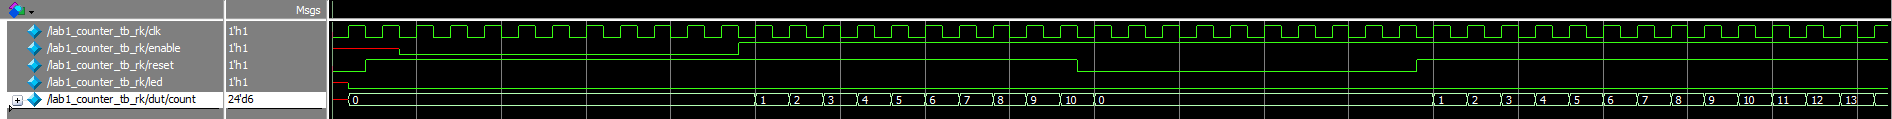
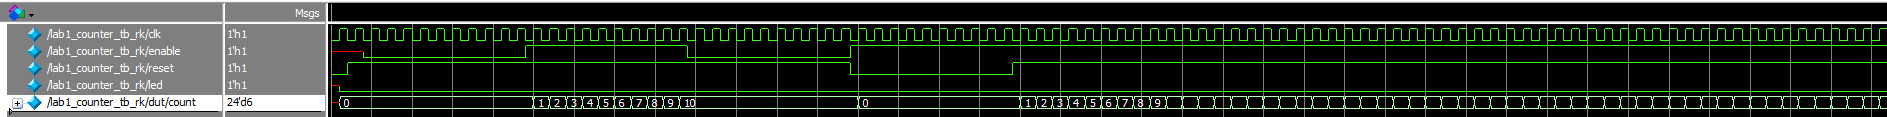
new testbench wave forms

diff --git a/docs/labs/lab1.html b/docs/labs/lab1.html
@@ -362,14 +362,20 @@ ul.task-list li input[type="checkbox"] {
 </div>
 <div class="quarto-figure quarto-figure-center">
 <figure class="figure">
+<p><img src="lab1_images/enable-reset_sim.png" class="img-fluid figure-img"></p>
+<figcaption>Figure 9: Enable and reset waveform validations</figcaption>
+</figure>
+</div>
+<div class="quarto-figure quarto-figure-center">
+<figure class="figure">
 <p><img src="lab1_images/frequency_reading.png" class="img-fluid figure-img"></p>
-<figcaption>Figure 9: Frequency reading of the counter module output showing that it is blinking at 2.4 Hz</figcaption>
+<figcaption>Figure 10: Frequency reading of the counter module output showing that it is blinking at 2.4 Hz</figcaption>
 </figure>
 </div>
 </div>
 </div>
 </div>
-<p>Figure 10 shows the successful simulation results of the switch-to-seven-segment module testbench. The module is checked by verifying that the output matches the expected output for all input-output pairs.</p>
+<p>Figure 11 shows the successful simulation results of the switch-to-seven-segment module testbench. The module is checked by verifying that the output matches the expected output for all input-output pairs.</p>
 <div class="callout callout-style-default callout-note callout-titled">
 <div class="callout-header d-flex align-content-center collapsed" data-bs-toggle="collapse" data-bs-target=".callout-7-contents" aria-controls="callout-7" aria-expanded="false" aria-label="Toggle callout">
 <div class="callout-icon-container">
@@ -385,7 +391,7 @@ ul.task-list li input[type="checkbox"] {
 <div class="quarto-figure quarto-figure-center">
 <figure class="figure">
 <p><img src="lab1_images/sevenseg_sim.png" class="img-fluid figure-img"></p>
-<figcaption>Figure 10: Switch-to-seven-segment module testbench waveforms</figcaption>
+<figcaption>Figure 11: Switch-to-seven-segment module testbench waveforms</figcaption>
 </figure>
 </div>
 </div>
